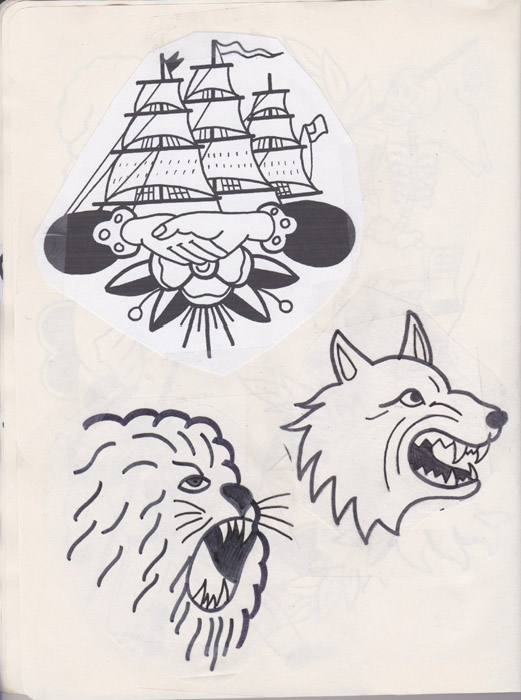
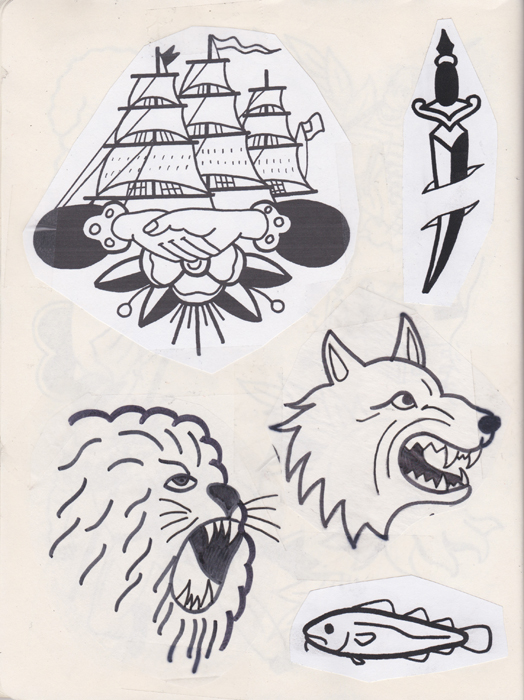
Lots of updates

diff --git a/tattoos.html b/tattoos.html
@@ -43,6 +43,33 @@ Tattoos
 <a href="images/crotchshot.jpg" title="My legs, mostly done by myself, ongoing collection." rel="lightbox[tattoo]">
 <img src="images/tattoo_thumbs/crotchshot_th.jpg" width = "100" title="Hand Poked Tattoos" border="0"/></a>
 
+<a href="images/castle.jpg" title="A castle turret, Providence, RI, 2021" rel="lightbox[tattoo]">
+<img src="images/tattoo_thumbs/castle_th.jpg" width = "100" title="Hand Poked Tattoos" border="0"/></a>
+
+<a href="images/gage1.jpg" title="The skeleton of Phineas Gage, Providence, RI, 2021" rel="lightbox[tattoo]">
+<img src="images/tattoo_thumbs/gage1_th.jpg" width = "100" title="Hand Poked Tattoos" border="0"/></a>
+
+<a href="images/gage2.jpg" title="Phineas Gage once again, Providence, RI, 2021" rel="lightbox[tattoo]">
+<img src="images/tattoo_thumbs/gage2_th.jpg" width = "100" title="Hand Poked Tattoos" border="0"/></a>
+
+<a href="images/harpoon3.jpg" title="A harpoon for a New Bedforder, Providence, RI, 2021" rel="lightbox[tattoo]">
+<img src="images/tattoo_thumbs/harpoon3_th.jpg" width = "100" title="Hand Poked Tattoos" border="0"/></a>
+
+<a href="images/mushroom4.jpg" title="Mushroom from flash with custom spots, Providence, RI, 2021" rel="lightbox[tattoo]">
+<img src="images/tattoo_thumbs/mushroom4_th.jpg" width = "100" title="Hand Poked Tattoos" border="0"/></a>
+
+<a href="images/raven.jpg" title="Raven, from my flash, Providence, RI, 2021" rel="lightbox[tattoo]">
+<img src="images/tattoo_thumbs/raven_th.jpg" width = "100" title="Hand Poked Tattoos" border="0"/></a>
+
+<a href="images/sewingmachine.jpg" title="Sewing machine for a friend who does marine upholstry, Providence, RI, 2021" rel="lightbox[tattoo]">
+<img src="images/tattoo_thumbs/sewingmachine_th.jpg" width = "100" title="Hand Poked Tattoos" border="0"/></a>
+
+<a href="images/sheep_and_beef.jpg" title="Custom sheep and beef, Providence, RI, 2021" rel="lightbox[tattoo]">
+<img src="images/tattoo_thumbs/sheep_and_beef_th.jpg" width = "100" title="Hand Poked Tattoos" border="0"/></a>
+
+<a href="images/swallow2.jpg" title="Swallow, Providence, RI, 2021" rel="lightbox[tattoo]">
+<img src="images/tattoo_thumbs/swallow2_th.jpg" width = "100" title="Hand Poked Tattoos" border="0"/></a>
+
 <a href="images/church.jpg" title="The black church of Búðir, Providence, RI, 2020" rel="lightbox[tattoo]">
 <img src="images/tattoo_thumbs/church_th.jpg" width = "100" title="Hand Poked Tattoos" border="0"/></a>
 
@@ -60,7 +87,6 @@ Tattoos
 
 <a href="images/1694.jpg" title="The date of the founding of Chilmark, MA, Providence, RI, 2020" rel="lightbox[tattoo]">
 <img src="images/tattoo_thumbs/1694_th.jpg" width = "100" title="Hand Poked Tattoos" border="0"/></a>
-
 
 
 <a href="images/amabie.jpg" title="An amabie, a Japanese spirit to prevent illness, Providence, RI, 2020" rel="lightbox[tattoo]">

diff --git a/flash.html b/flash.html
@@ -234,6 +234,21 @@ Flash
 <a href="flash/48.jpg" title="Scans from a scrapbook of finished and unfinished drawings" rel="lightbox[tattoo]">
 <img src="flash/flash_thumbs/48_th.jpg" width = "100" title="Tattoo flash" border="0"/></a>
 
+<a href="flash/49.jpg" title="Scans from a scrapbook of finished and unfinished drawings" rel="lightbox[tattoo]">
+<img src="flash/flash_thumbs/49_th.jpg" width = "100" title="Tattoo flash" border="0"/></a>
+
+<a href="flash/50.jpg" title="Scans from a scrapbook of finished and unfinished drawings" rel="lightbox[tattoo]">
+<img src="flash/flash_thumbs/50_th.jpg" width = "100" title="Tattoo flash" border="0"/></a>
+
+<a href="flash/51.jpg" title="Scans from a scrapbook of finished and unfinished drawings" rel="lightbox[tattoo]">
+<img src="flash/flash_thumbs/51_th.jpg" width = "100" title="Tattoo flash" border="0"/></a>
+
+<a href="flash/52.jpg" title="Scans from a scrapbook of finished and unfinished drawings" rel="lightbox[tattoo]">
+<img src="flash/flash_thumbs/52_th.jpg" width = "100" title="Tattoo flash" border="0"/></a>
+
+<a href="flash/53.jpg" title="Scans from a scrapbook of finished and unfinished drawings" rel="lightbox[tattoo]">
+<img src="flash/flash_thumbs/53_th.jpg" width = "100" title="Tattoo flash" border="0"/></a>
+
 
 <!--zine-->		
 

diff --git a/index.html b/index.html
@@ -35,7 +35,7 @@ Owen the Massachusite
 
 <div id="content">
 
-<img src="flash/sheet_card.jpg" width="400" alt="Flash Sheet" title="Sample flash sheet"/><!--header image-->	
+<img src="flash/sheet_sep2020.jpg" width="400" alt="Flash Sheet" title="Sample flash sheet"/><!--header image-->	
 
 
 	<p class="muchtext">
